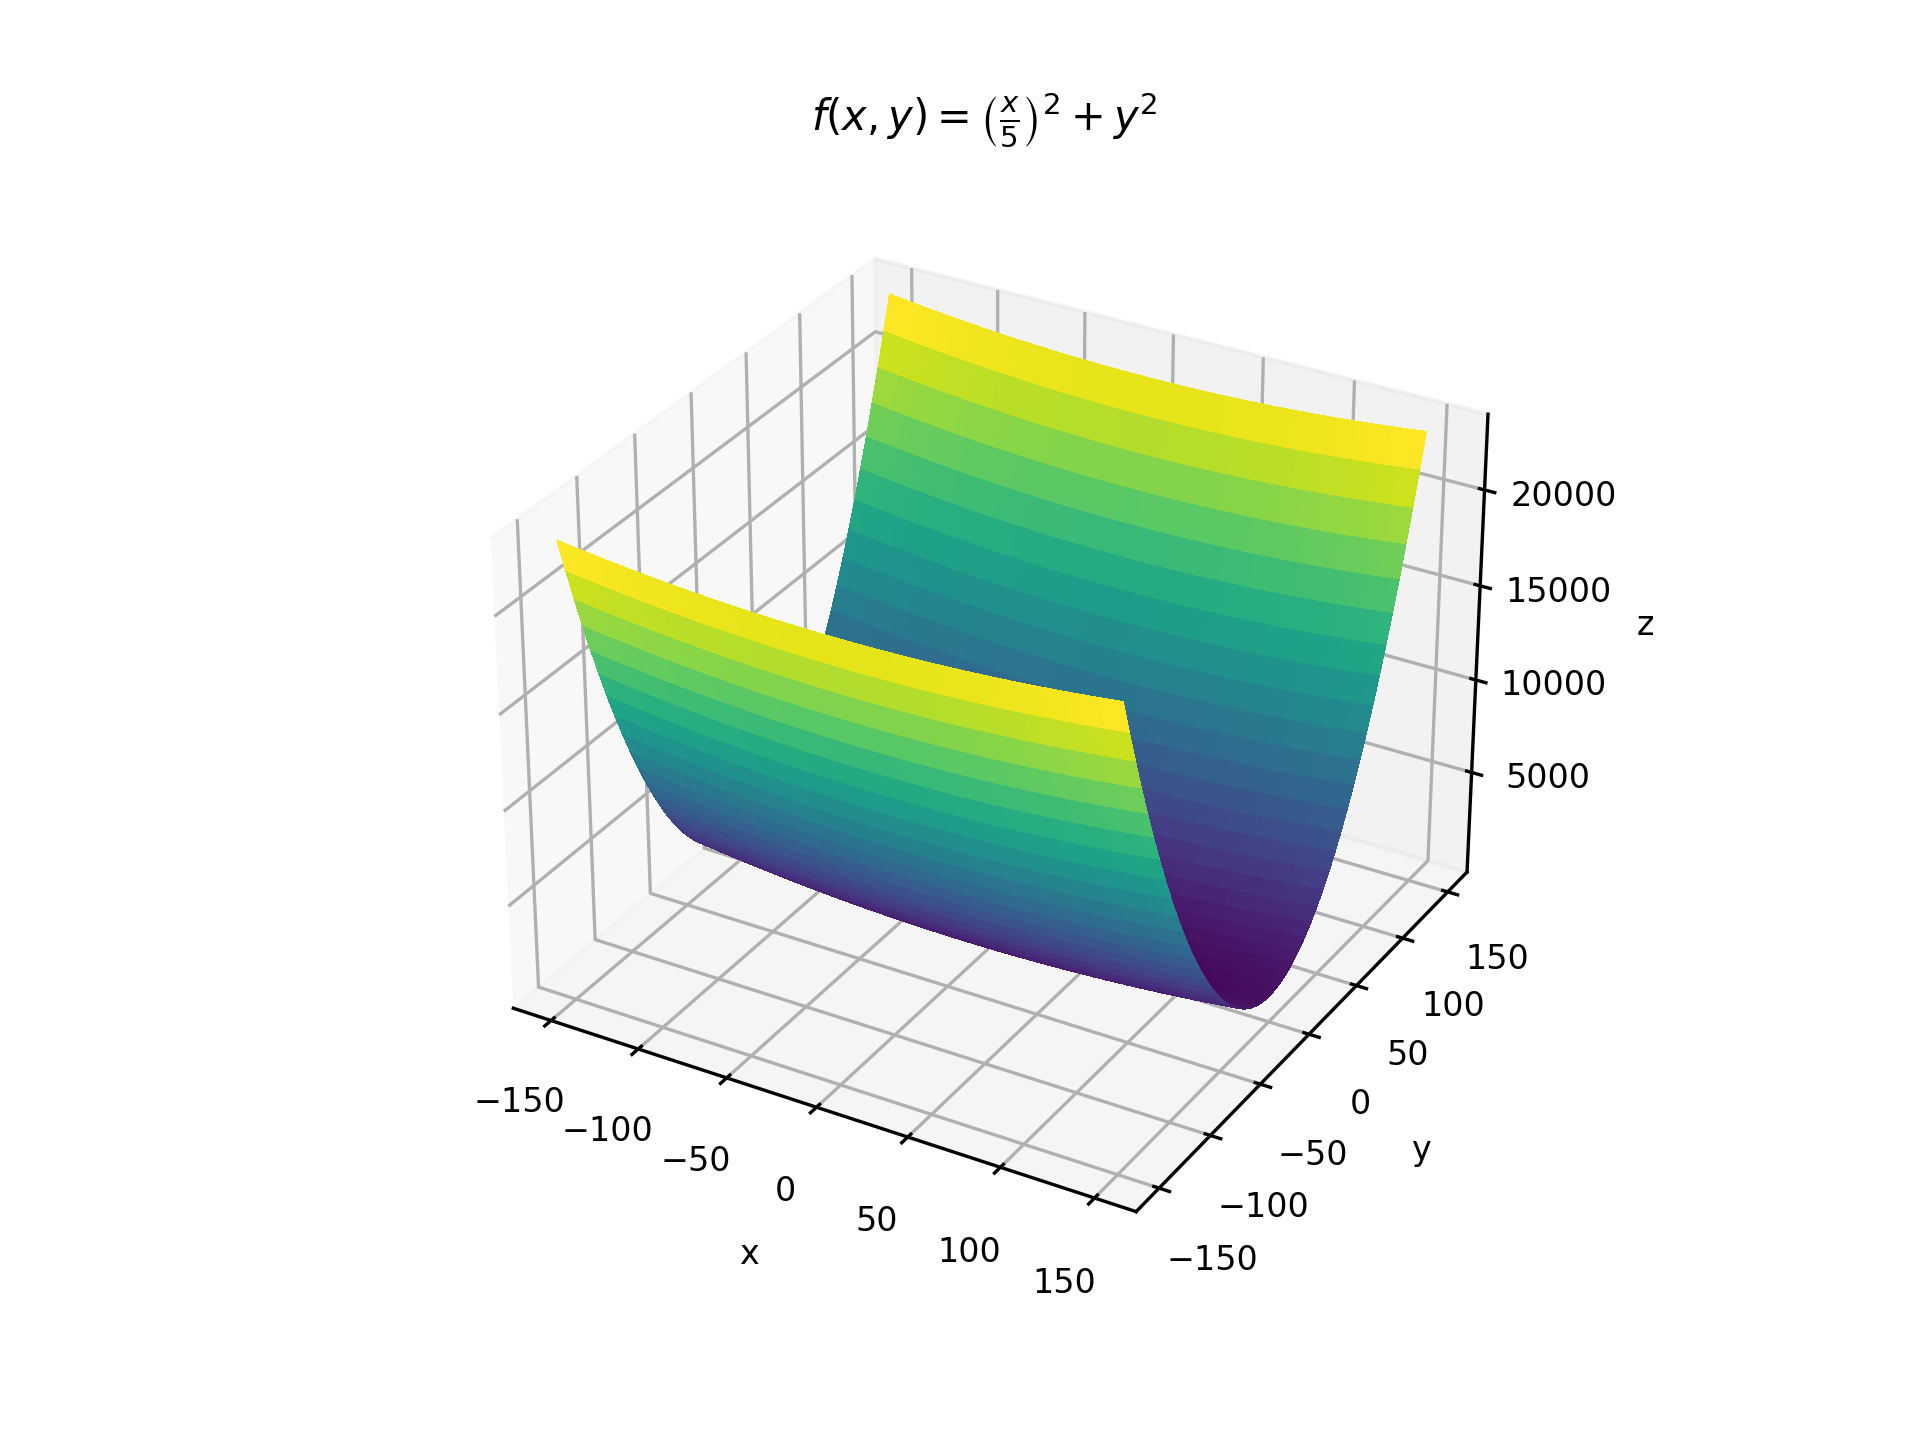
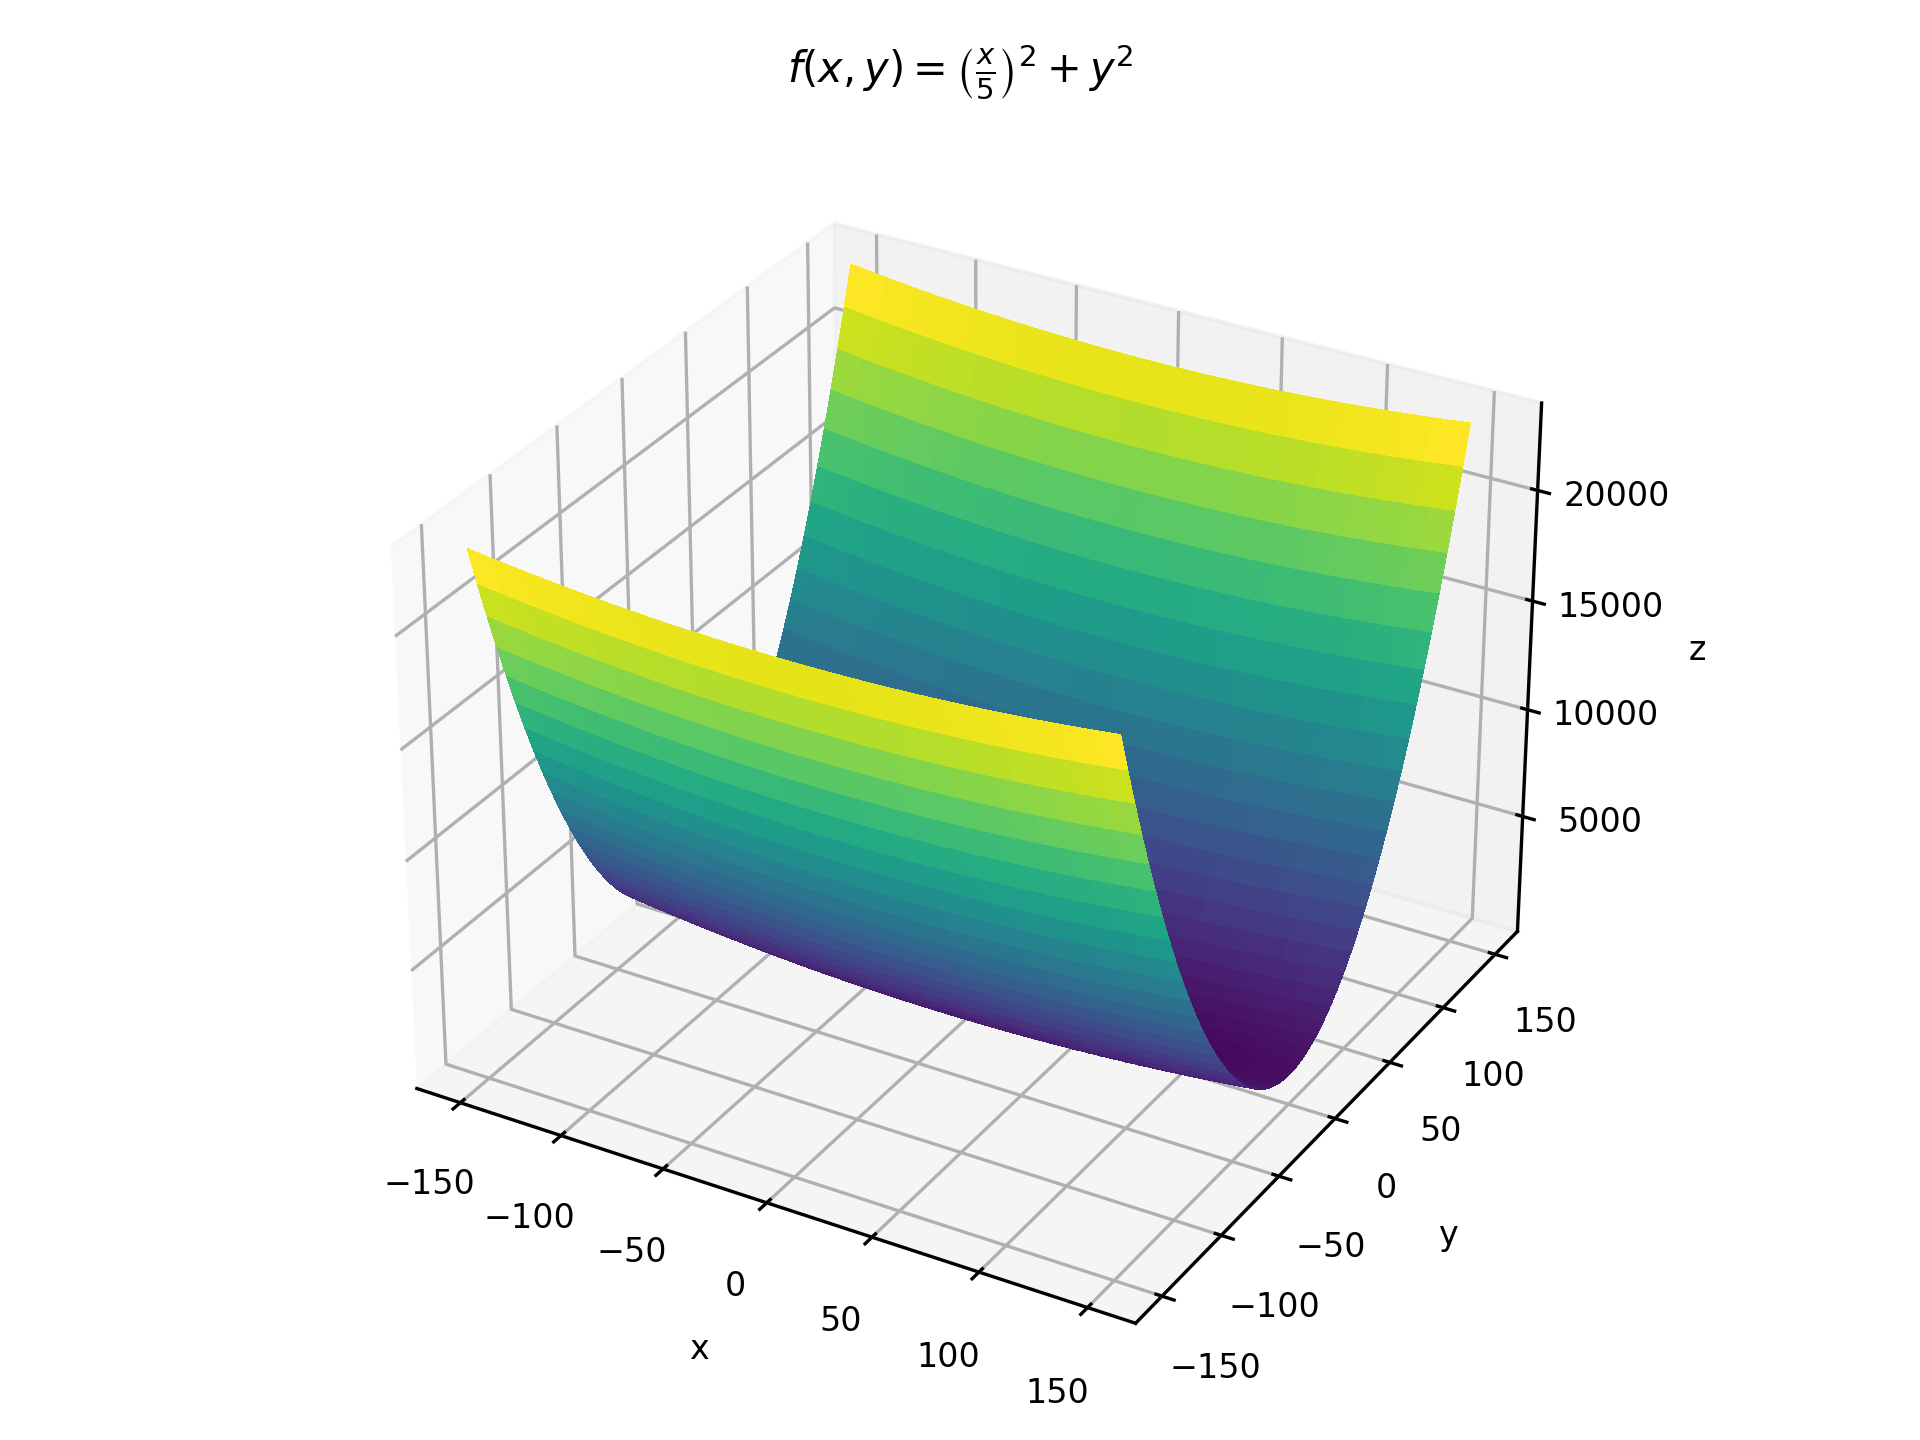
reduce margins on plotted functions

diff --git a/Visualizing g(x,y).py b/Visualizing g(x,y).py
@@ -22,4 +22,5 @@ ax.set_xlabel('x')
 ax.set_ylabel('y')
 ax.set_zlabel('z')
 plt.title(r"$g(x,y) = -(x^2+y^2)e^{-x^2-y^2}-(x^5+y^5)e^{-x^2-y^2}$", size = 10, pad = 10)
+plt.tight_layout()
 plt.savefig(f"results/g_x_y.png", dpi = 300)

diff --git a/Visualizing f(x,y).py b/Visualizing f(x,y).py
@@ -22,4 +22,5 @@ ax.set_xlabel('x')
 ax.set_ylabel('y')
 ax.set_zlabel('z')
 plt.title(r"$f(x,y) = \left(\frac{x}{5}\right)^2+y^2$", size = 10, pad = 10)
+plt.tight_layout()
 plt.savefig(f"results/f_x_y.png", dpi = 300)
